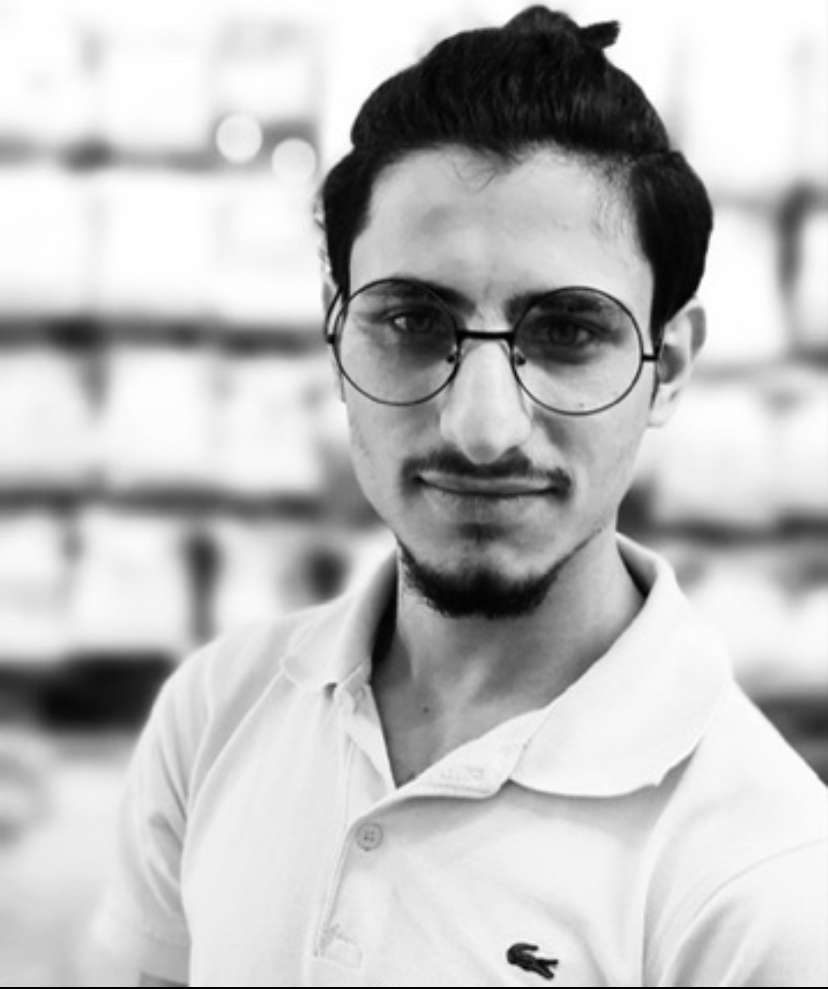
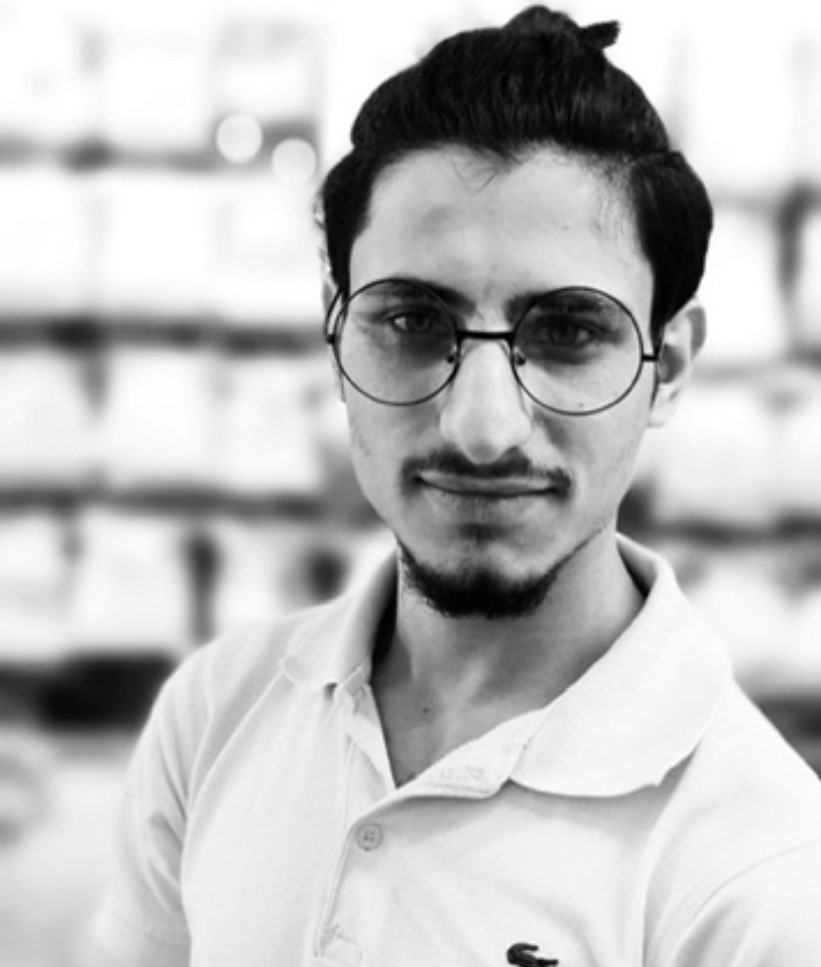
continue for styling

diff --git a/src/ComponentFolders/TeamPage/TeamPageMain.jsx b/src/ComponentFolders/TeamPage/TeamPageMain.jsx
@@ -1,23 +1,24 @@
 import React from 'react'
 import TeamCards from './TeamCards'
 import menar from './Images/Menar Selamet_Turkey_2022.jpg'
-import sohail  from './Images/Sohail Ahmed_Turkey_2022.jpeg'
-import seyma from './Images/Seyma Demir_Turkey_2022.jpeg'
+import sohail  from './Images/SohailAhmed.jpeg'
+import seyma from './Images/Seyma Demir_Turkey_2022.jpg'
 import selvi from './Images/Selvi Ece Dugan_Turkey_2022.jpg'
 import ammar from './Images/Ammar Eldik_Turkey_2022.jpg'
 
 
 // name and jobs for pass data to card with props
 // do we need to show team trainer?
-const names = ["Menar Selamet", "Sohail Ahmed", "Seyma Demir", "Selvi Ece Dugan", "Ammar Eldik"]
+const names = ["Menar Selamet", "Sohail Ahmed", "Şeyma Demir", "Selvi Ece Dugan", "Ammar Eldik"]
 const jobs = ["Lead Engineer", "Frontend Developer"]
 const photos = [menar, sohail, seyma, selvi, ammar]
 
 function TeamPageMain() {
   return (
-    <div className='flex flex-col'>
-        <div className='font-poppins flex-grow-2'>WE ARE HEALING, NICE TO MEET YOU!</div>
-        <div className='font-poppins flex felx-rows flex-grows'>
+    <div className='flex flex-col text-[#424A4F]'>
+        <div className='font-poppins flex-grow-2 text-5xl leading-10'>WE ARE HEALING, NICE TO MEET YOU!</div>
+        <div className='text-3xl leading-10'>Meet the Team!</div>
+        <div className='font-poppins flex flex-rows justify-items-center justify-between'>
             {names.map((name, index) => {
                 return <TeamCards name={name} job={jobs[1]} photo={photos[index]} />
             })}

diff --git a/src/ComponentFolders/TeamPage/TeamCards.jsx b/src/ComponentFolders/TeamPage/TeamCards.jsx
@@ -3,22 +3,19 @@ import React from 'react'
 
 function TeamCards({name, job, photo}) {
   return (
-    <div className="w-full rounded-lg shadow-md lg:max-w-sm p-[1%]">
+    <div className="w-[20em] bg-[#EAF8F9] rounded-[2em] shadow-md lg:max-w-sm p-[1%]">
     <img
-        className="object-cover object-center w-full h-96"
+        className="object-cover object-center w-full h-96 rounded-t-[2em]"
         src={photo}
         alt="seyma"
     />
-    <div className="p-4">
-        <h4 className="text-xl font-semibold tracking-tight text-blue-600">
+    <div className="p-4 flex flex-col items-center">
+        <h4 className="text-2xl font-semibold tracking-tight text-[#424A4F] ">
             {name}
         </h4>
-        <p className="mb-2 leading-normal">
+        <p className="text-lg mb-2 leading-normal">
             {job}
         </p>
-        {/* <button className="px-4 py-2 text-sm text-blue-100 bg-blue-500 rounded shadow">
-            Read more
-        </button> */}
     </div>
 </div>
   )
